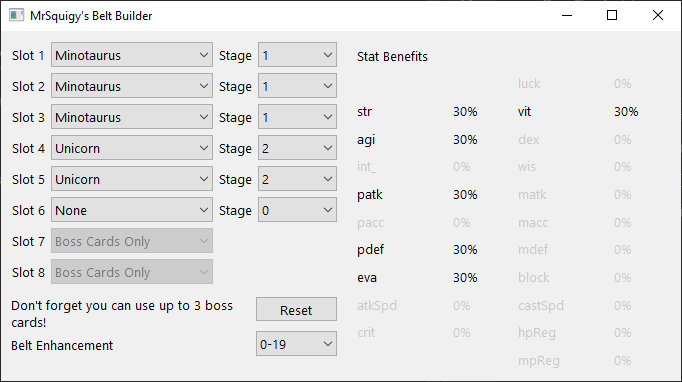
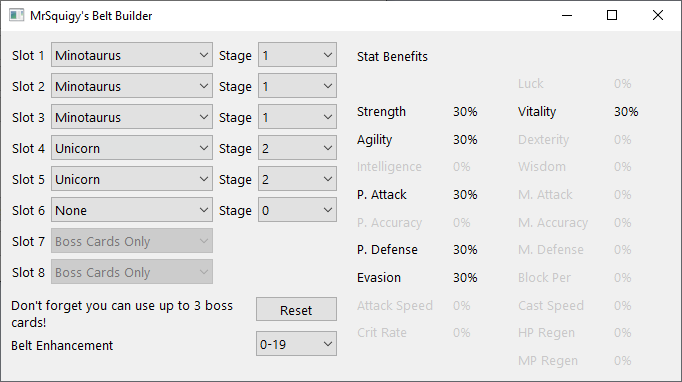
Display proper stat names

diff --git a/src/mainwindow.cpp b/src/mainwindow.cpp
@@ -73,6 +73,9 @@ MainWindow::MainWindow(QWidget *parent) : QMainWindow(parent), ui(new Ui::MainWi
                        };
     QStringList stages = {"0", "1", "2", "3", "4", "5"};
 
+    // Stat names
+    statNames = Stats::initStatNames();
+
     // Get all dropdowns
     QList<QComboBox*> dropdowns = ui->slotsParent->findChildren<QComboBox*>();
 
@@ -109,13 +112,21 @@ void MainWindow::displayStats() {
 
         // Get the stat benefit from the name
         float stat = metaEnum.keyToValue(statName.toStdString().c_str());
+        QString displayName = statNames[(Stats::Stat) stat];
         stat = stats[(Stats::Stat) stat];
 
         // Grey out if stat gains no benefit
         if (stat > 0) label->setStyleSheet("color: #000000");
         else label->setStyleSheet("color: #C8C8C8");
 
-        label->setText(QString(statName + "\t\t" + QString::number(stat) + "%")); // Display the stat
+        // Formatting
+        QString tabs = (displayName.length() > 7) ? "\t" : "\t\t";
+
+        // Formatting Exceptions
+        if (displayName == "Vitality") tabs = "\t\t";
+        if (displayName == "Wisdom") tabs = "\t";
+
+        label->setText(QString(displayName + tabs + QString::number(stat) + "%"));
     }
 }
 

diff --git a/src/include/stats.h b/src/include/stats.h
@@ -1,6 +1,8 @@
 #pragma once
 
 #include <QObject>
+#include <QMap>
+
 
 class Stats : public QObject {
     Q_OBJECT
@@ -31,4 +33,30 @@ public:
               };
     Q_ENUM(Stat)
 
+    static QMap<Stat, QString> initStatNames() {
+        QMap<Stat, QString> names;
+
+        names[luck] = "Luck";
+        names[str] = "Strength";
+        names[vit] = "Vitality";
+        names[agi] = "Agility";
+        names[dex] = "Dexterity";
+        names[int_] = "Intelligence";
+        names[wis] = "Wisdom";
+        names[patk] = "P. Attack";
+        names[matk] = "M. Attack";
+        names[pacc] = "P. Accuracy";
+        names[macc] = "M. Accuracy";
+        names[pdef] = "P. Defense";
+        names[mdef] = "M. Defense";
+        names[eva] = "Evasion";
+        names[block] = "Block Per";
+        names[atkSpd] = "Attack Speed";
+        names[castSpd] = "Cast Speed";
+        names[crit] = "Crit Rate";
+        names[hpReg] = "HP Regen";
+        names[mpReg] = "MP Regen";
+
+        return names;
+    }
 };

diff --git a/src/beltbuilder.cpp b/src/beltbuilder.cpp
@@ -247,7 +247,6 @@ QList<QPair<Stats::Stat, float>> BeltBuilder::getPetBenefits(QString pet, int st
     if (pet == "Soul: HP Recov") stats.append(Stats::hpReg);
     if (pet == "Soul: MP Recov") stats.append(Stats::mpReg);
 
-
     for (Stats::Stat stat : stats) benefits.append(QPair<Stats::Stat, float>(stat, benefit));
 
     return benefits;

diff --git a/src/include/mainwindow.h b/src/include/mainwindow.h
@@ -34,4 +34,6 @@ private:
     void updateBuilder();
 
     void updateBeltEnhance();
+
+    QMap<Stats::Stat, QString> statNames;
 };
